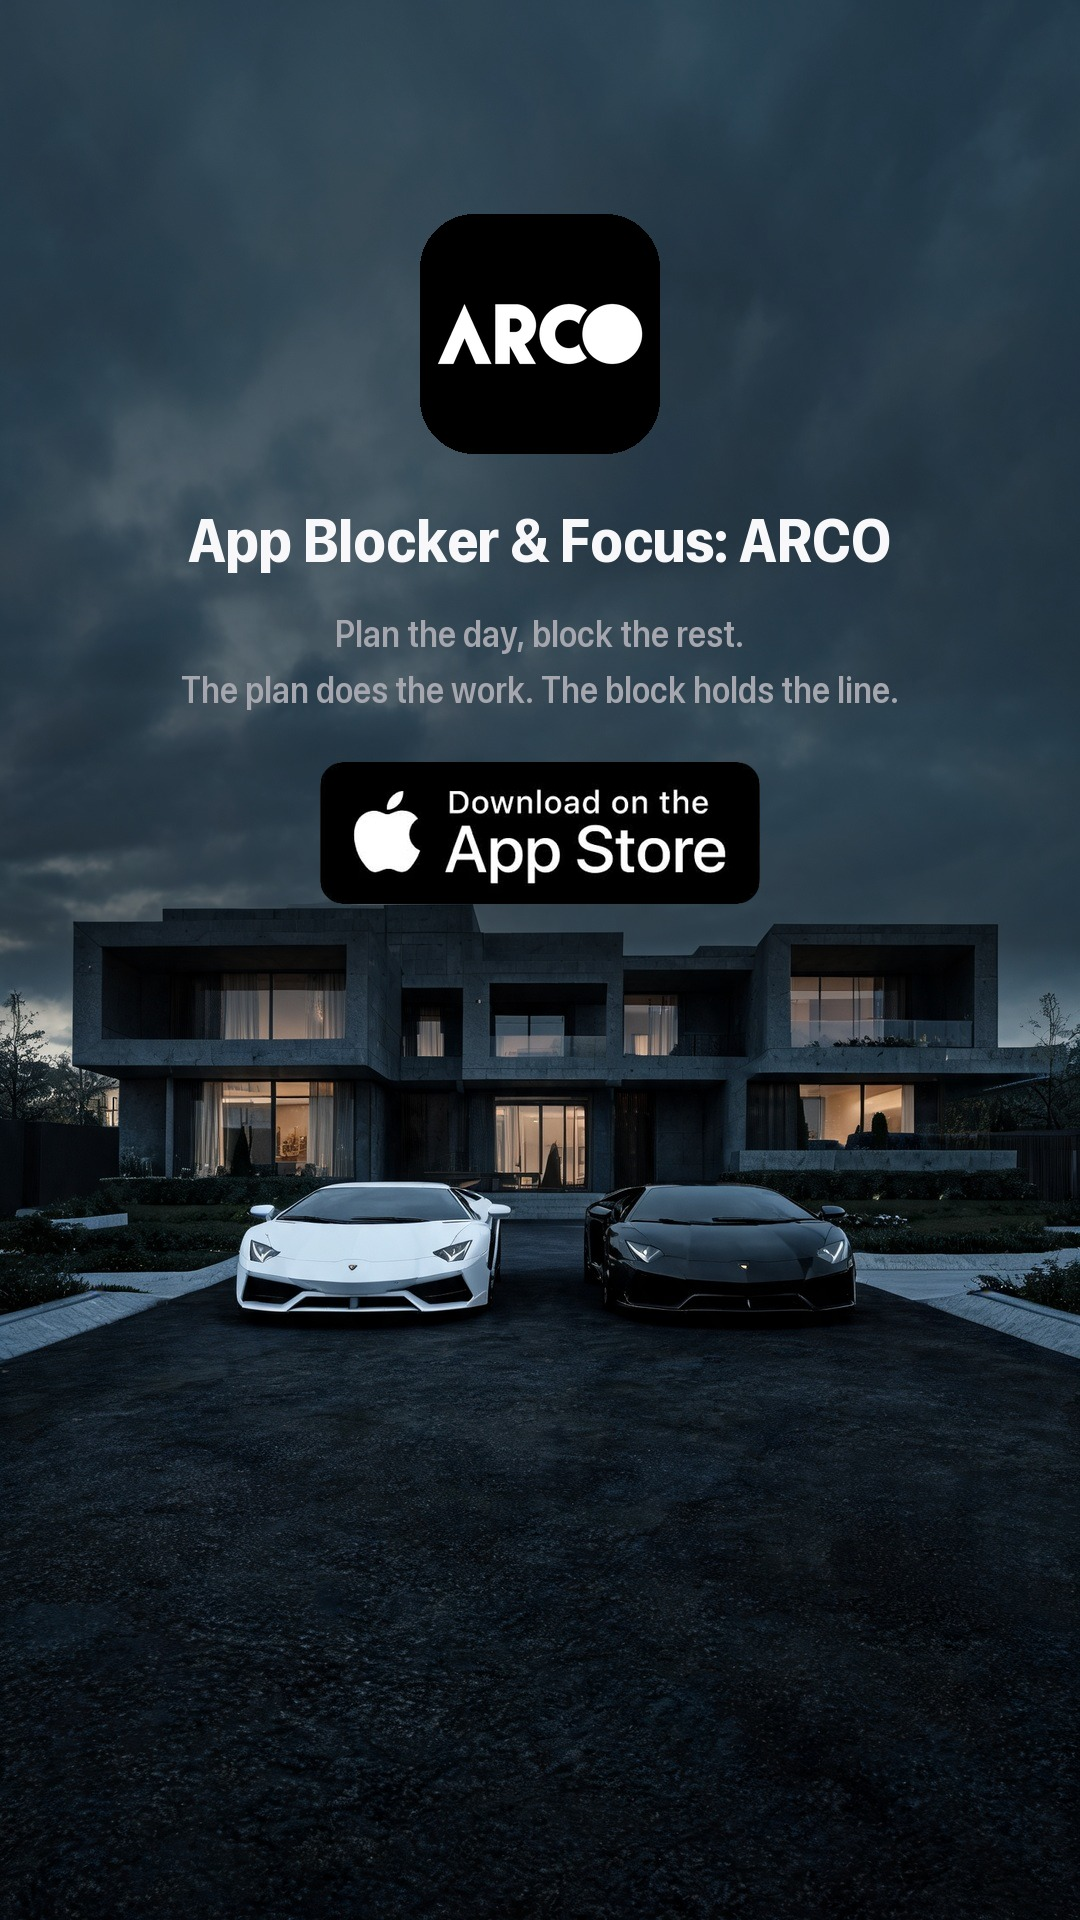
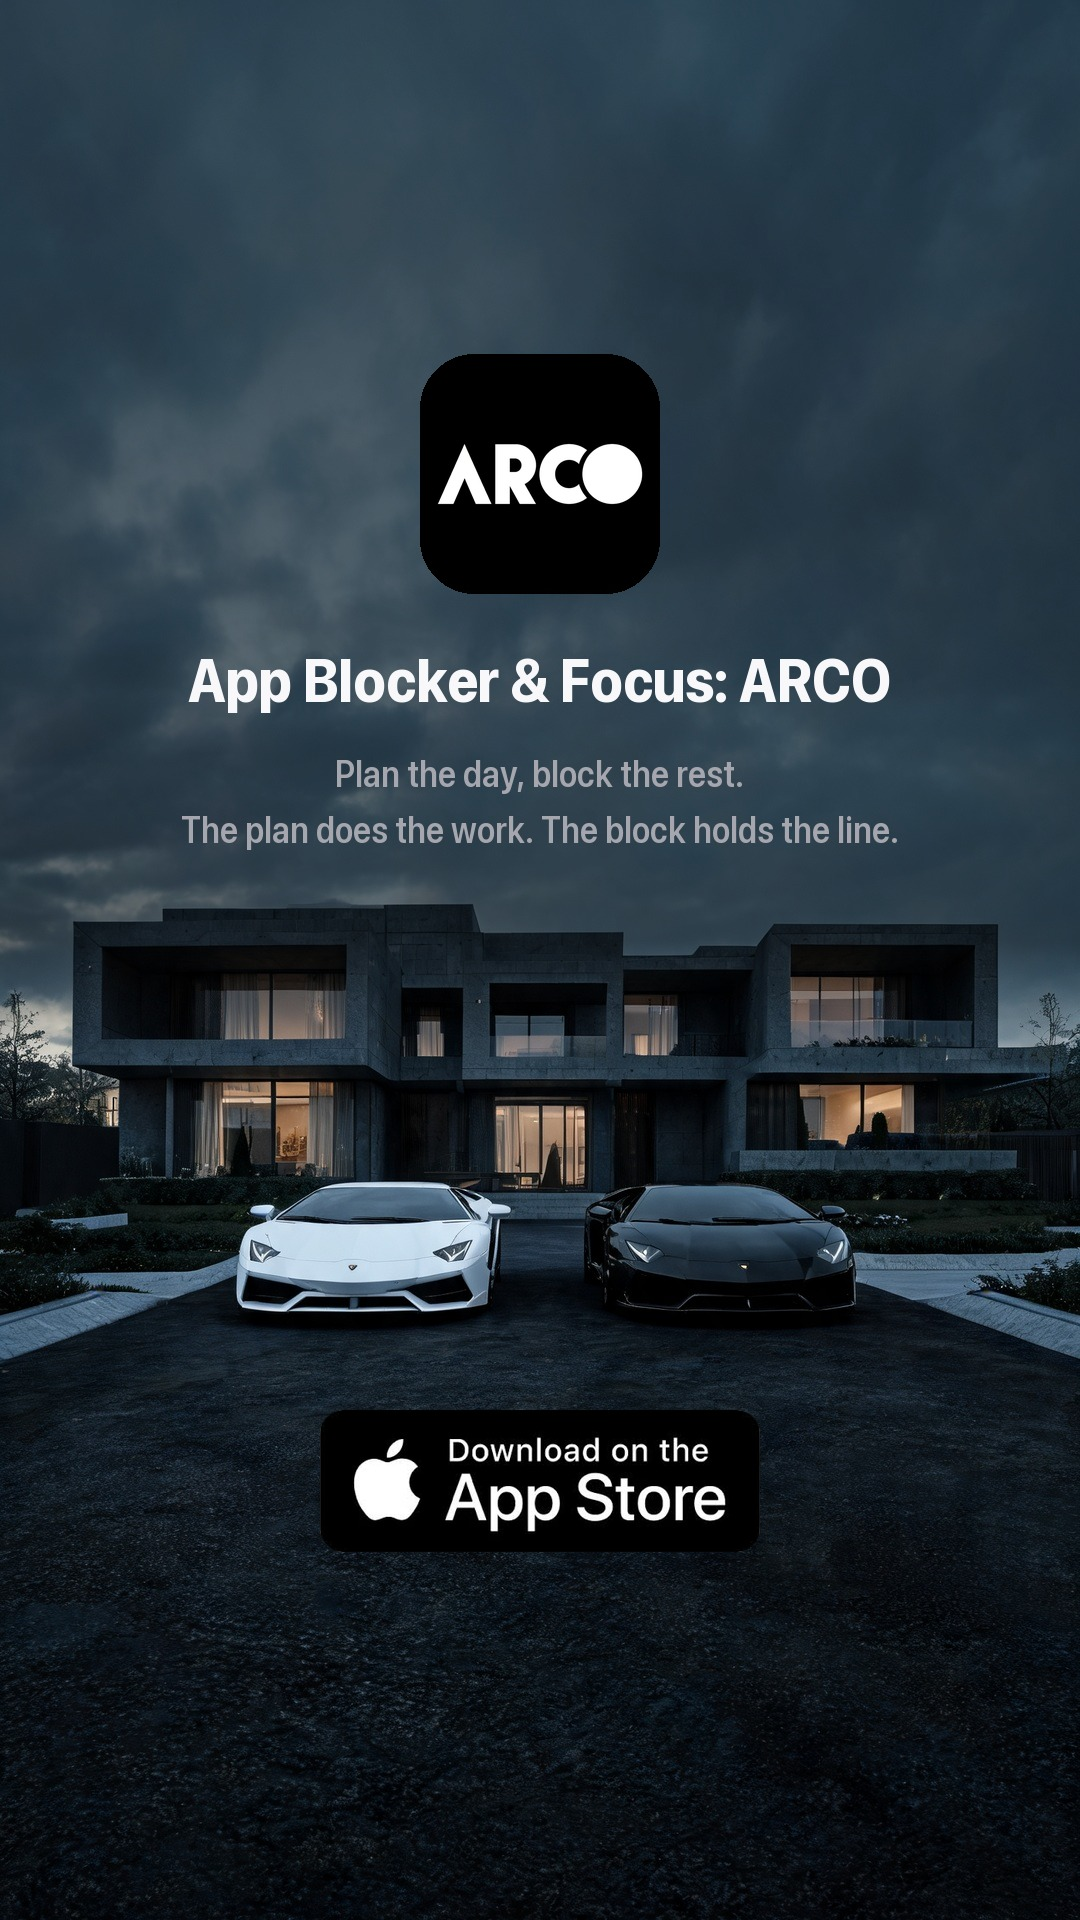
under-an-hour: closing card puts the cars between the pitch and the badge
Thinh: move it all down; the cars belong between the subtitle and the
App Store badge. Text block shifts 140px lower so the subtitle ends just
above the roofline, the badge drops to y=1410 on the driveway. Slides
1-5 untouched.

Changed region(s): [[0.1528, 0.0938, 0.825, 0.4688], [0.275, 0.7188, 0.7028, 0.8125]]

diff --git a/tools/gen-under-an-hour.py b/tools/gen-under-an-hour.py
@@ -60,16 +60,20 @@ for i, ((src, crop, num, title, body), bg) in enumerate(zip(SLIDES, BGS), 2):
                 f'{OUT}/{i:02d}.jpg', style=STYLE)
 
 # The closing card goes back to the hook's photograph: the villa and the two
-# cars. The card sits in the sky, where the hook copy sat, with the sky
-# scrimmed from the top edge down so there is no seam, and the cars are
-# left clear beneath the badge. The post closes on the picture it opened on.
+# cars. Icon, name and pitch sit low in the sky so the subtitle ends just
+# above the roofline, the sky scrimmed from the top edge down so there is no
+# seam, and the badge drops onto the driveway beneath the cars. Read top to
+# bottom: the pitch, the cars, the store. The post closes on the picture it
+# opened on.
 CTA_BG = base_photo('bg-h35.jpg', (1.0, 1.0, 0, 1))
 adaptive_scrim(CTA_BG, 0, 940, target=60, strength_cap=0.62)
 
+# The badge's y is `text bottom + badge_gap`; the text bottom lands at 862
+# with this box, so 548 puts the badge at 1410, clear of the cars' bumpers.
 cta_slide(None, f'{OUT}/06.jpg',
           subtitle=['Plan the day, block the rest.',
                     'The plan does the work. The block holds the line.'],
           badge=True, card=CTA_BG,
-          style={'icon': 240, 'box': (96, 984, 130, 960), 'name_size': 62,
+          style={'icon': 240, 'box': (96, 984, 270, 1100), 'name_size': 62,
                  'ink': (248, 248, 250), 'sub': (166, 166, 174),
-                 'badge_gap': 40})
+                 'badge_gap': 548})
